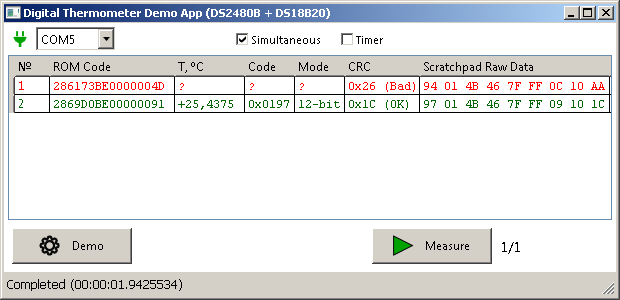
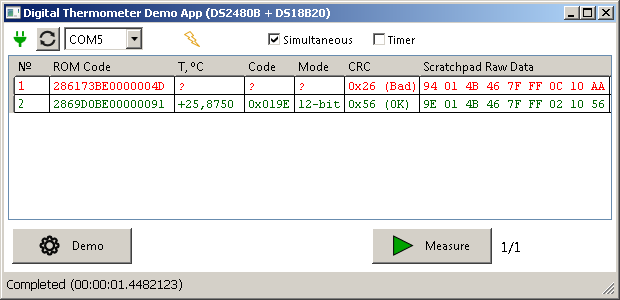
Performing Read Power Supply command to detect parasite powered DS18B20 on bus

diff --git a/Src/DigitalThermometer.App/Assets/PathData.xaml b/Src/DigitalThermometer.App/Assets/PathData.xaml
@@ -30,4 +30,8 @@
         M1.6000061,18.200001L11.199982,22.599996 8.6000061,24.400015C10.699982,26.200002 13.299988,27.30001 16.100006,27.30001 21.399994,27.30001 26.100006,23.800009 27.199982,18.700002L27.399994,18.300007 32,18.300007 31.799988,19.099996C30.5,26.599998 23.899994,31.599998 16.100006,31.599998 11.699982,31.599998 7.6999817,29.900017 4.6999817,26.900017L2.5,28.400017z M15.899994,0C20.299988,1.8645551E-07,24.299988,1.6999976,27.299988,4.5999921L29.399994,3.000001 30.299988,13.000004 20.699982,9.1999996 23.299988,7.3999956C21.199982,5.5999926 18.600006,4.5999921 15.799988,4.5999921 10.5,4.5999921 5.7999878,8.3000048 4.6999817,13.399998L4.5,14.300007 0,14.300007 0.19998169,13.000004C1.5,5.5000017,8.1999817,1.8645551E-07,15.899994,0z
     </sys:String>
 
+    <sys:String x:Key="pathDataShapeLightingWF">
+        M11.77527,2.262682L3.0122528,7.0417347 11.514269,12.143789C11.80827,12.31979 11.99127,12.634794 11.999271,12.977797 12.00827,13.319801 11.840271,13.642804 11.55427,13.832807L9.8692665,14.955818 18.514283,20.143874C18.808284,20.319876 18.991284,20.634879 18.999284,20.977883 19.008284,21.319886 18.840283,21.64289 18.554283,21.832892L16.98828,22.876903 26.658298,27.712955 20.260286,20.67388C20.064286,20.457877 19.971286,20.167874 20.007286,19.878871 20.043286,19.589869 20.203286,19.329865 20.445287,19.168863L22.29129,17.93885 14.386275,11.789785C14.114275,11.578783 13.971274,11.243778 14.005275,10.901775 14.038275,10.560772 14.245275,10.259768 14.552276,10.105766L17.395281,8.685751z M12.009731,5.1498413E-05C12.287193,0.0028934479,12.559771,0.12141037,12.752272,0.34266281L19.752285,8.3427486C19.956285,8.5747509 20.041286,8.8897533 19.981286,9.1937561 19.921286,9.4977608 19.724285,9.7567635 19.447285,9.8957653L16.86628,11.185778 24.613295,17.211843C24.867295,17.408845 25.011295,17.715848 24.999295,18.036852 24.988296,18.357855 24.822295,18.653858 24.554295,18.83286L22.522291,20.188874 31.739308,30.327983C32.063309,30.684987 32.088309,31.220992 31.797309,31.604996 31.602308,31.860999 31.304307,32.001001 30.999307,32.001001 30.848307,32.001001 30.695306,31.967 30.552306,31.896L14.552276,23.895914C14.234275,23.735912 14.024275,23.418909 14.002275,23.063905 13.980274,22.706902 14.149275,22.365898 14.445275,22.168896L16.130279,21.045883 7.4852619,15.857828C7.1912613,15.681827 7.0082607,15.366823 7.0002613,15.023819 6.9922619,14.681816 7.1602612,14.358812 7.445261,14.16881L9.1302643,13.045797 0.48524857,7.8577423C0.17824745,7.6737404 -0.0077514648,7.3387375 0.00024795532,6.9807339 0.0082473755,6.6217289 0.20624733,6.2947254 0.52124786,6.1227245L11.521269,0.12265968C11.67502,0.038284302,11.843254,-0.0016536713,12.009731,5.1498413E-05z
+    </sys:String>
+
 </ResourceDictionary>

diff --git a/Src/DigitalThermometer.App/Views/MainWindow.xaml b/Src/DigitalThermometer.App/Views/MainWindow.xaml
@@ -67,9 +67,22 @@
                       ItemsSource="{Binding SerialPortNames}"
                       SelectedItem="{Binding SelectedSerialPortName}" />
 
+            <ContentControl 
+                ToolTip="Parasite powered DS18B20 are on bus"
+                Visibility="{Binding ParasitePowerVisibility}">
+                <Path Width="16" Height="16" Margin="40,0,8,0"
+                      HorizontalAlignment="Stretch" VerticalAlignment="Stretch"
+                      Stretch="Uniform"
+                      Data="{Binding Source={StaticResource pathDataShapeLightingWF}}">
+                    <Path.Fill>
+                        <SolidColorBrush Color="{StaticResource MetroOrange}"/>
+                    </Path.Fill>
+                </Path>
+            </ContentControl>
+            
             <CheckBox Content="Simultaneous" 
                       VerticalAlignment="Center"
-                      Margin="120,0,0,0"
+                      Margin="60,0,0,0"
                       ToolTip="Simultaneous measurements on all connected sensors"
                       IsEnabled="{Binding IsMeasuresEnabled}" 
                       IsChecked="{Binding IsSimultaneousMeasurementsMode, Mode=TwoWay}" />

diff --git a/Src/DigitalThermometer.OneWire/OneWireMaster.cs b/Src/DigitalThermometer.OneWire/OneWireMaster.cs
@@ -380,17 +380,54 @@ namespace DigitalThermometer.OneWire
         #region DS18B20 specific methods
 
         /// <summary>
-        /// Perform temperature conversion on all DS18B20 slave devices on bus
+        /// Perform Read Power Supply command on all DS18B20 slave devices on bus
         /// </summary>
-        private async Task PerformDS18B20TemperatureConversionAsync()
+        /// <returns>Response of Read Power Supply command</returns>
+        public async Task<byte> ReadDS18B20PowerSupplyAsync()
         {
-            var request = CreatePerformDS18B20TemperatureConversionRequest();
             var busResetResponse = await this.OneWireBusResetAsync();
             if (busResetResponse != OneWireBusResetResponse.PresencePulse)
             {
                 throw new IOException($"No proper bus reset response was received ({busResetResponse})");
             }
 
+            var request = CreateReadDS18B20PowerSupplyRequest();
+            await this.TransmitRawDataAsync(request); // Without escaping
+            var response = await this.WaitResponseAsync(BusResetResponseLength + request.Length - 1 - 1, this.BusResponseTimeout);
+            if (!response)
+            {
+                throw new IOException($"No proper response was received [{Utils.ByteArrayToHexSpacedString(this.receiveBuffer)}]");
+            }
+
+            // Process Single Bit response
+            var singleBitResponse = this.receiveBuffer[this.receiveBuffer.Count - 1];
+            var bits27 = singleBitResponse & 0b11111100;
+            if (bits27 != (request[request.Length - 1] & 0b11111100))
+            {
+                throw new IOException($"Invalid Single Bit response: 0x{singleBitResponse:X2}");
+            }
+
+            var bits01 = singleBitResponse & 0b00000011;
+            switch (bits01)
+            {
+                case 0b00: return 0;
+                case 0b11: return 1;
+                default: throw new IOException($"Invalid Single Bit response: 0x{singleBitResponse:X2}");
+            }
+        }
+
+        /// <summary>
+        /// Perform temperature conversion on all DS18B20 slave devices on bus
+        /// </summary>
+        private async Task PerformDS18B20TemperatureConversionAsync()
+        {
+            var busResetResponse = await this.OneWireBusResetAsync();
+            if (busResetResponse != OneWireBusResetResponse.PresencePulse)
+            {
+                throw new IOException($"No proper bus reset response was received ({busResetResponse})");
+            }
+
+            var request = CreatePerformDS18B20TemperatureConversionRequest();
             await this.TransmitDataPacketAsync(request);
             await Task.Delay((int)DS18B20.MaxConversionTime12bit);
             var response = await this.WaitResponseAsync(BusResetResponseLength + request.Length - 1, this.BusResponseTimeout);
@@ -411,14 +448,13 @@ namespace DigitalThermometer.OneWire
                 throw new FormatException($"Invalid ROM code of DS18B20: {Utils.RomCodeToLEString(romCode)}");
             }
 
-            var request = CreatePerformDS18B20TemperatureConversionRequest(romCode);
-
             var busResetResponse = await this.OneWireBusResetAsync();
             if (busResetResponse != OneWireBusResetResponse.PresencePulse)
             {
                 throw new IOException($"No proper bus reset response was received ({busResetResponse})");
             }
 
+            var request = CreatePerformDS18B20TemperatureConversionRequest(romCode);
             await this.TransmitDataPacketAsync(request);
             await Task.Delay((int)DS18B20.MaxConversionTime12bit);
             var response = await this.WaitResponseAsync(BusResetResponseLength + request.Length - 1, this.BusResponseTimeout);
@@ -440,14 +476,13 @@ namespace DigitalThermometer.OneWire
                 throw new FormatException($"Invalid ROM code of DS18B20: {Utils.RomCodeToLEString(romCode)}");
             }
 
-            var request = CreateReadDS18B20ScratchpadRequest(romCode);
-
             var busResetResponse = await this.OneWireBusResetAsync();
             if (busResetResponse != OneWireBusResetResponse.PresencePulse)
             {
                 throw new IOException($"No proper bus reset response was received ({busResetResponse})");
             }
 
+            var request = CreateReadDS18B20ScratchpadRequest(romCode);
             await this.TransmitDataPacketAsync(request);
             var response = await this.WaitResponseAsync(BusResetResponseLength + request.Length - 1, this.BusResponseTimeout);
             if (!response)
@@ -482,6 +517,20 @@ namespace DigitalThermometer.OneWire
         #endregion
 
         #region DS18B20 specific methods requests creating
+
+        private static byte[] CreateReadDS18B20PowerSupplyRequest()
+        {
+            var request = new byte[]
+            {
+                DS2480B.SwitchToDataMode,
+                DS18B20.SKIP_ROM,
+                DS18B20.READ_POWER_SUPPLY,
+                DS2480B.SwitchToCommandMode,
+                DS2480B.CommandSingleBitReadDataAtFlexSpeed,
+            };
+
+            return request;
+        }
 
         private static byte[] CreatePerformDS18B20TemperatureConversionRequest()
         {

diff --git a/Src/DigitalThermometer.App/ViewModels/MainViewModel.cs b/Src/DigitalThermometer.App/ViewModels/MainViewModel.cs
@@ -131,6 +131,39 @@ namespace DigitalThermometer.App.ViewModels
             }
         }
 
+        private bool? isParasitePower = null;
+
+        private bool? IsParasitePower
+        {
+            get
+            {
+                return this.isParasitePower;
+            }
+
+            set
+            {
+                if (this.isParasitePower != value)
+                {
+                    this.isParasitePower = value;
+                    base.OnPropertyChanged(nameof(ParasitePowerVisibility));
+                }
+            }
+        }
+
+        public Visibility ParasitePowerVisibility
+        {
+            get
+            {
+                switch (this.IsParasitePower)
+                {
+                    case null: return Visibility.Hidden;
+                    case true: return Visibility.Visible;
+                    case false: return Visibility.Hidden;
+                    default: throw new ArgumentOutOfRangeException();
+                }
+            }
+        }
+
         private readonly DispatcherTimer measurementsTimer = new DispatcherTimer { Interval = TimeSpan.FromSeconds(15), IsEnabled = false, };
 
         private bool isTimerMeasurementsMode = false;
@@ -238,6 +271,7 @@ namespace DigitalThermometer.App.ViewModels
             this.BusState = String.Empty;
             this.IsBusy = true;
             this.SensorsState = new List<SensorStateModel>();
+            this.IsParasitePower = null;
 
             this.measuresRuns++;
             var stopwatch = Stopwatch.StartNew();
@@ -305,8 +339,10 @@ namespace DigitalThermometer.App.ViewModels
                         // http://www.claassen.net/geek/blog/2007/07/inotifypropertychanged-and-cross-thread-exceptions.html
 
                         this.DisplayState($"Total sensors found: {list.Count}");
-                        this.DisplayState("Performing measure...");
 
+                        this.IsParasitePower = OW.DS18B20.IsParasitePowerMode(await busMaster.ReadDS18B20PowerSupplyAsync());
+
+                        this.DisplayState("Performing measure...");
                         var results = new Dictionary<ulong, OW.DS18B20.Scratchpad>();
                         if (this.IsSimultaneousMeasurementsMode)
                         {

diff --git a/Src/DigitalThermometer.OneWire/DS18B20.cs b/Src/DigitalThermometer.OneWire/DS18B20.cs
@@ -85,6 +85,9 @@ namespace DigitalThermometer.OneWire
 
         /// <summary>
         /// READ POWER SUPPLY [B4h]
+        /// The master device issues this command followed by a read time slot to determine if any DS18B20s on the
+        /// bus are using parasite power.During the read time slot, parasite powered DS18B20s will pull the bus
+        /// low, and externally powered DS18B20s will let the bus remain high.
         /// </summary>
         public const byte READ_POWER_SUPPLY = 0xB4;
 
@@ -208,6 +211,21 @@ namespace DigitalThermometer.OneWire
             else
             {
                 return (UInt16)(0xFFFF - (UInt16)(-temperature / TemperatureStep12bit) + 1);
+            }
+        }
+
+        /// <summary>
+        /// Interprets Read Power Supply command response
+        /// </summary>
+        /// <param name="readPowerSupplyResponse">Read Power Supply command response</param>
+        /// <returns>Parasite powered DS18B20 are on bus</returns>
+        public static bool IsParasitePowerMode(byte readPowerSupplyResponse)
+        {
+            switch (readPowerSupplyResponse)
+            {
+                case 0: return true;
+                case 1: return false;
+                default: throw new ArgumentOutOfRangeException(nameof(readPowerSupplyResponse));
             }
         }
 

diff --git a/Src/DigitalThermometer.OneWire/DS2480B.cs b/Src/DigitalThermometer.OneWire/DS2480B.cs
@@ -38,6 +38,11 @@ namespace DigitalThermometer.OneWire
         /// </summary>
         public const byte CommandSearchAcceleratorControlOnAtFlexSpeed = 0xB5;
 
+        /// <summary>
+        /// Generate Read Data time slot at flex speed without strong pullup
+        /// </summary>
+        public const byte CommandSingleBitReadDataAtFlexSpeed = 0b10010101;
+
         #region Configuration commands
 
         // See Table 3. CONFIGURATION PARAMETER OVERVIEW
